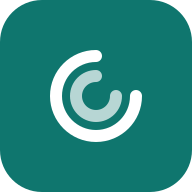
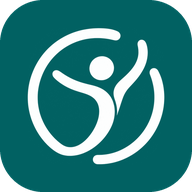
Novo logótipo: ícones da web, PWA, app iOS/Android e ecrãs de arranque
Claude-Session: https://claude.ai/code/session_01RJmLHpkske9VrxBwGERicD

diff --git a/src/components/Nav.tsx b/src/components/Nav.tsx
@@ -25,12 +25,8 @@ type Me = { nome: string | null; email: string | null; avatar: string | null; ad
 function Logo() {
   return (
     <Link href="/" className="flex items-center gap-2 font-semibold tracking-tight">
-      <span className="flex h-8 w-8 items-center justify-center rounded-lg bg-accent text-on-accent">
-        <svg width="18" height="18" viewBox="0 0 24 24" fill="none" stroke="currentColor" strokeWidth="2.4" strokeLinecap="round" aria-hidden="true">
-          <path d="M12 4a8 8 0 1 0 8 8" />
-          <path d="M12 8a4 4 0 1 0 4 4" opacity="0.7" />
-        </svg>
-      </span>
+      {/* eslint-disable-next-line @next/next/no-img-element */}
+      <img src="/icon-192.png" alt="" width={32} height={32} className="h-8 w-8 rounded-lg" />
       Taking care of yourself
     </Link>
   );

diff --git a/mobile/www/offline.html b/mobile/www/offline.html
@@ -5,7 +5,7 @@
 <div>
   <h1 style="font-size:20px">Sem ligação à internet</h1>
   <p style="color:#475569">Verifique a ligação e tente de novo.<br><span lang="en">No internet connection. Check your connection and try again.</span></p>
-  <button onclick="location.href='https://dieta-macros.vercel.app'" style="margin-top:12px;padding:12px 20px;border:0;border-radius:12px;background:#0f766e;color:#fff;font-size:16px">Tentar de novo / Try again</button>
+  <button onclick="location.href='https://takingcare.pt'" style="margin-top:12px;padding:12px 20px;border:0;border-radius:12px;background:#016162;color:#fff;font-size:16px">Tentar de novo / Try again</button>
 </div>
 </body>
 </html>

diff --git a/src/app/login/page.tsx b/src/app/login/page.tsx
@@ -91,6 +91,8 @@ export default function LoginPage() {
       <div className="flex justify-end">
         <LanguageSwitch />
       </div>
+      {/* eslint-disable-next-line @next/next/no-img-element */}
+      <img src="/icon-192.png" alt="" width={56} height={56} className="mt-2 h-14 w-14 rounded-2xl" />
       <h1 className="mt-4 text-3xl font-semibold tracking-tight">Taking care of yourself</h1>
       <p className="mt-1 text-muted">{t("app.tagline")}</p>
       <form onSubmit={submit} className="mt-8 space-y-3 rounded-2xl border border-line bg-card p-5">

diff --git a/src/app/layout.tsx b/src/app/layout.tsx
@@ -15,7 +15,7 @@ export async function generateMetadata(): Promise<Metadata> {
     description: t("app.tagline"),
     manifest: "/manifest.webmanifest",
     appleWebApp: { capable: true, title: "Taking care", statusBarStyle: "default" },
-    icons: { icon: [{ url: "/icon.svg", type: "image/svg+xml" }, { url: "/icon-192.png", sizes: "192x192" }], apple: "/apple-touch-icon.png" },
+    icons: { icon: [{ url: "/icon-48.png", sizes: "48x48" }, { url: "/icon-192.png", sizes: "192x192" }], apple: "/apple-touch-icon.png" },
   };
 }
 

diff --git a/src/middleware.ts b/src/middleware.ts
@@ -45,5 +45,5 @@ export async function middleware(request: NextRequest) {
 }
 
 export const config = {
-  matcher: ["/((?!_next/static|_next/image|favicon.ico|manifest.webmanifest|icon\\.svg|icon-.*\\.png|apple-touch-icon\\.png|\\.well-known).*)"],
+  matcher: ["/((?!_next/static|_next/image|favicon.ico|manifest.webmanifest|icon-.*\\.png|apple-touch-icon\\.png|\\.well-known).*)"],
 };

diff --git a/design/mkicons.py b/design/mkicons.py
@@ -1,0 +1,54 @@
+# Gera todos os ícones a partir de design/logo-original.png: python3 design/mkicons.py design/logo-original.png .
+import sys, numpy as np
+from PIL import Image, ImageDraw
+SRC, OUT = sys.argv[1], sys.argv[2]
+TEAL = (1, 97, 98)
+im = np.array(Image.open(SRC).convert("RGB")).astype(float)
+h, w, _ = im.shape
+# alfa do símbolo branco sobre o verde (canal R: 1 no verde, 255 no branco)
+alpha = np.clip((im[:, :, 0] - TEAL[0]) / (255 - TEAL[0]), 0, 1)
+cy, cx = 627, 627
+yy, xx = np.mgrid[0:h, 0:w]
+alpha[(yy - cy) ** 2 + (xx - cx) ** 2 > 420 ** 2] = 0   # fora do quadrado arredondado
+ys, xs = np.where(alpha > 0.05)
+x0, x1, y0, y1 = xs.min(), xs.max(), ys.min(), ys.max()
+print("símbolo", x0, x1, y0, y1)
+side = max(x1 - x0, y1 - y0) + 1
+mx, my = (x0 + x1) // 2, (y0 + y1) // 2
+box = (mx - side // 2, my - side // 2, mx - side // 2 + side, my - side // 2 + side)
+a = Image.fromarray((alpha * 255).astype("uint8")).crop(box)
+glyph = Image.merge("RGBA", (Image.new("L", a.size, 255),) * 3 + (a,))
+SQ = 1006  # lado do quadrado original
+FRAC = side / SQ  # proporção original do símbolo (~0.71)
+print("proporção", round(FRAC, 3))
+
+def place(size, frac, bg):
+    c = Image.new("RGBA", (size, size), bg)
+    g = glyph.resize((round(size * frac),) * 2, Image.LANCZOS)
+    c.alpha_composite(g, ((size - g.width) // 2, (size - g.height) // 2))
+    return c
+
+def rounded(size, frac=FRAC, radius=0.225):
+    big = size * 4
+    c = place(big, frac, TEAL + (255,))
+    m = Image.new("L", (big, big), 0)
+    ImageDraw.Draw(m).rounded_rectangle((0, 0, big - 1, big - 1), radius=int(big * radius), fill=255)
+    c.putalpha(m)
+    return c.resize((size, size), Image.LANCZOS)
+
+pub, mob = OUT + "/public/", OUT + "/mobile/assets/"
+rounded(512).save(pub + "icon-512.png")
+rounded(192).save(pub + "icon-192.png")
+rounded(48).save(pub + "icon-48.png")
+place(512, 0.60, TEAL + (255,)).save(pub + "icon-maskable-512.png")
+place(180, FRAC, TEAL + (255,)).convert("RGB").save(pub + "apple-touch-icon.png")
+# App iOS: 1024 sem transparência (exigido pela App Store); a Apple arredonda os cantos
+place(1024, FRAC, TEAL + (255,)).convert("RGB").save(mob + "icon-only.png")
+place(1024, 0.50, (0, 0, 0, 0)).save(mob + "icon-foreground.png")   # Android adaptativo
+Image.new("RGB", (1024, 1024), TEAL).save(mob + "icon-background.png")
+for name, bg in (("splash.png", (245, 247, 250)), ("splash-dark.png", (11, 18, 32))):
+    s = Image.new("RGBA", (2732, 2732), bg + (255,))
+    ic = rounded(560)
+    s.alpha_composite(ic, ((2732 - 560) // 2, (2732 - 560) // 2))
+    s.convert("RGB").save(mob + name)
+print("ok")
